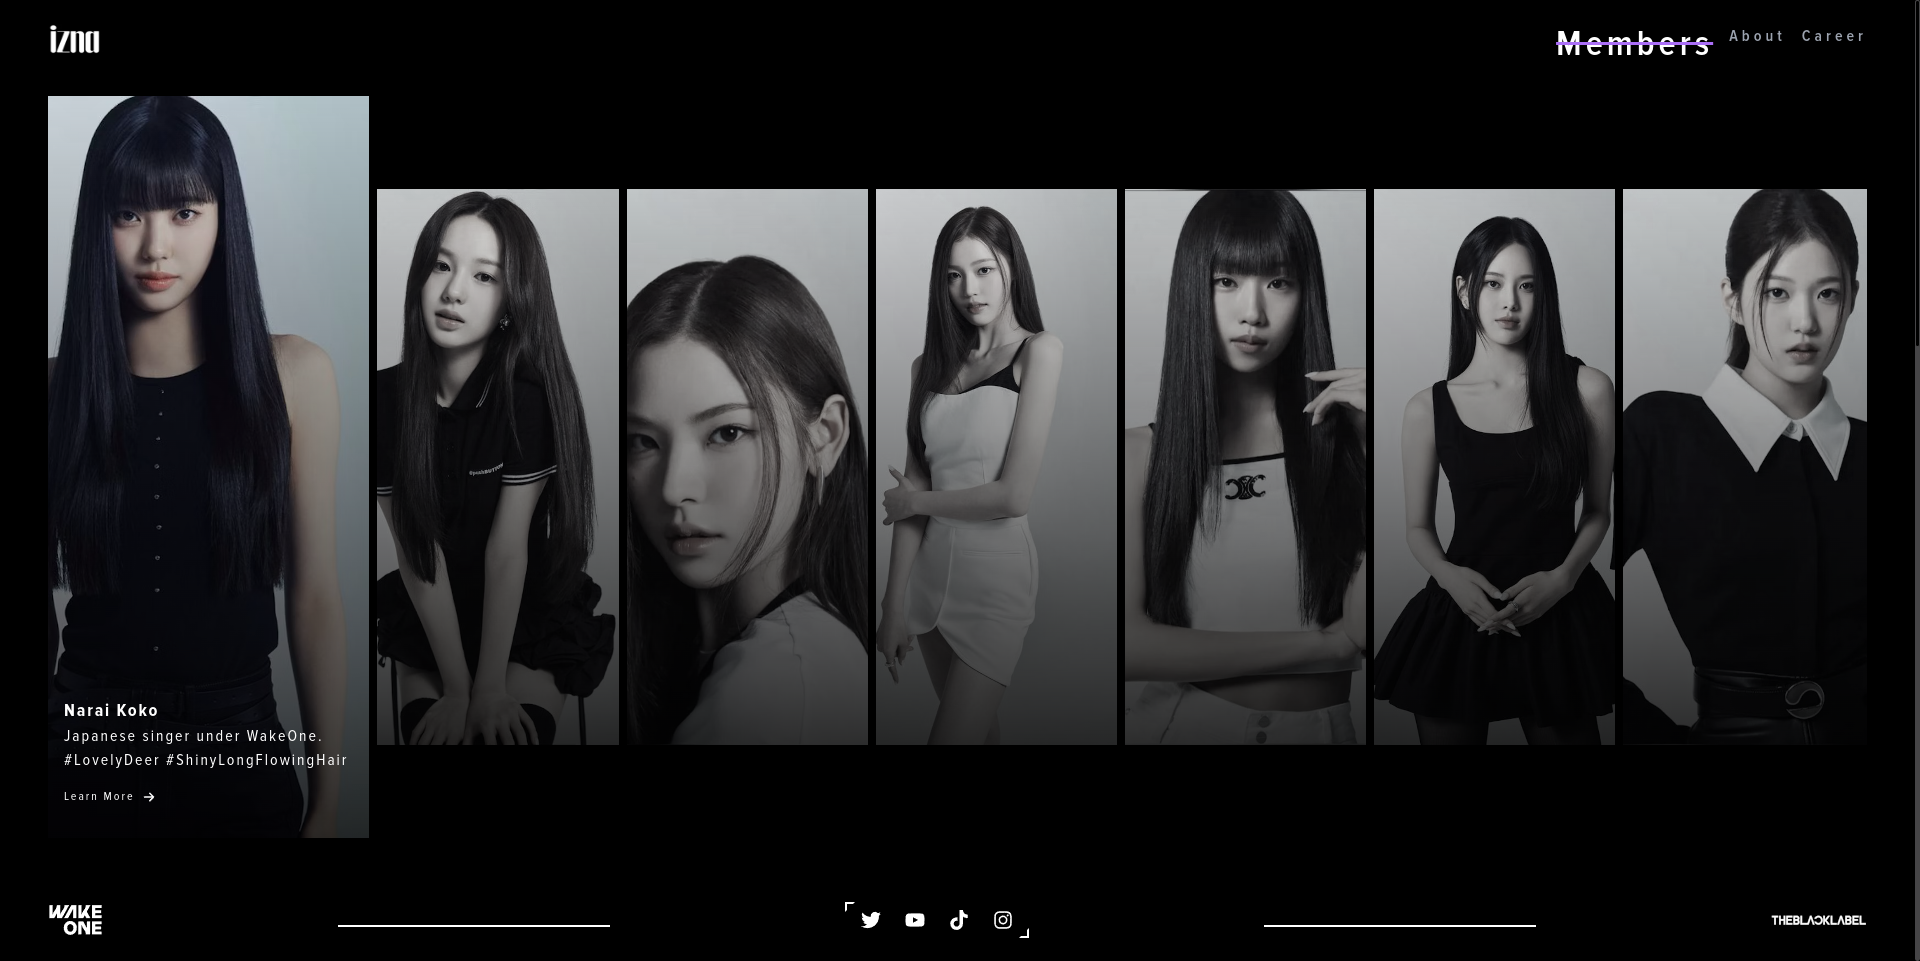
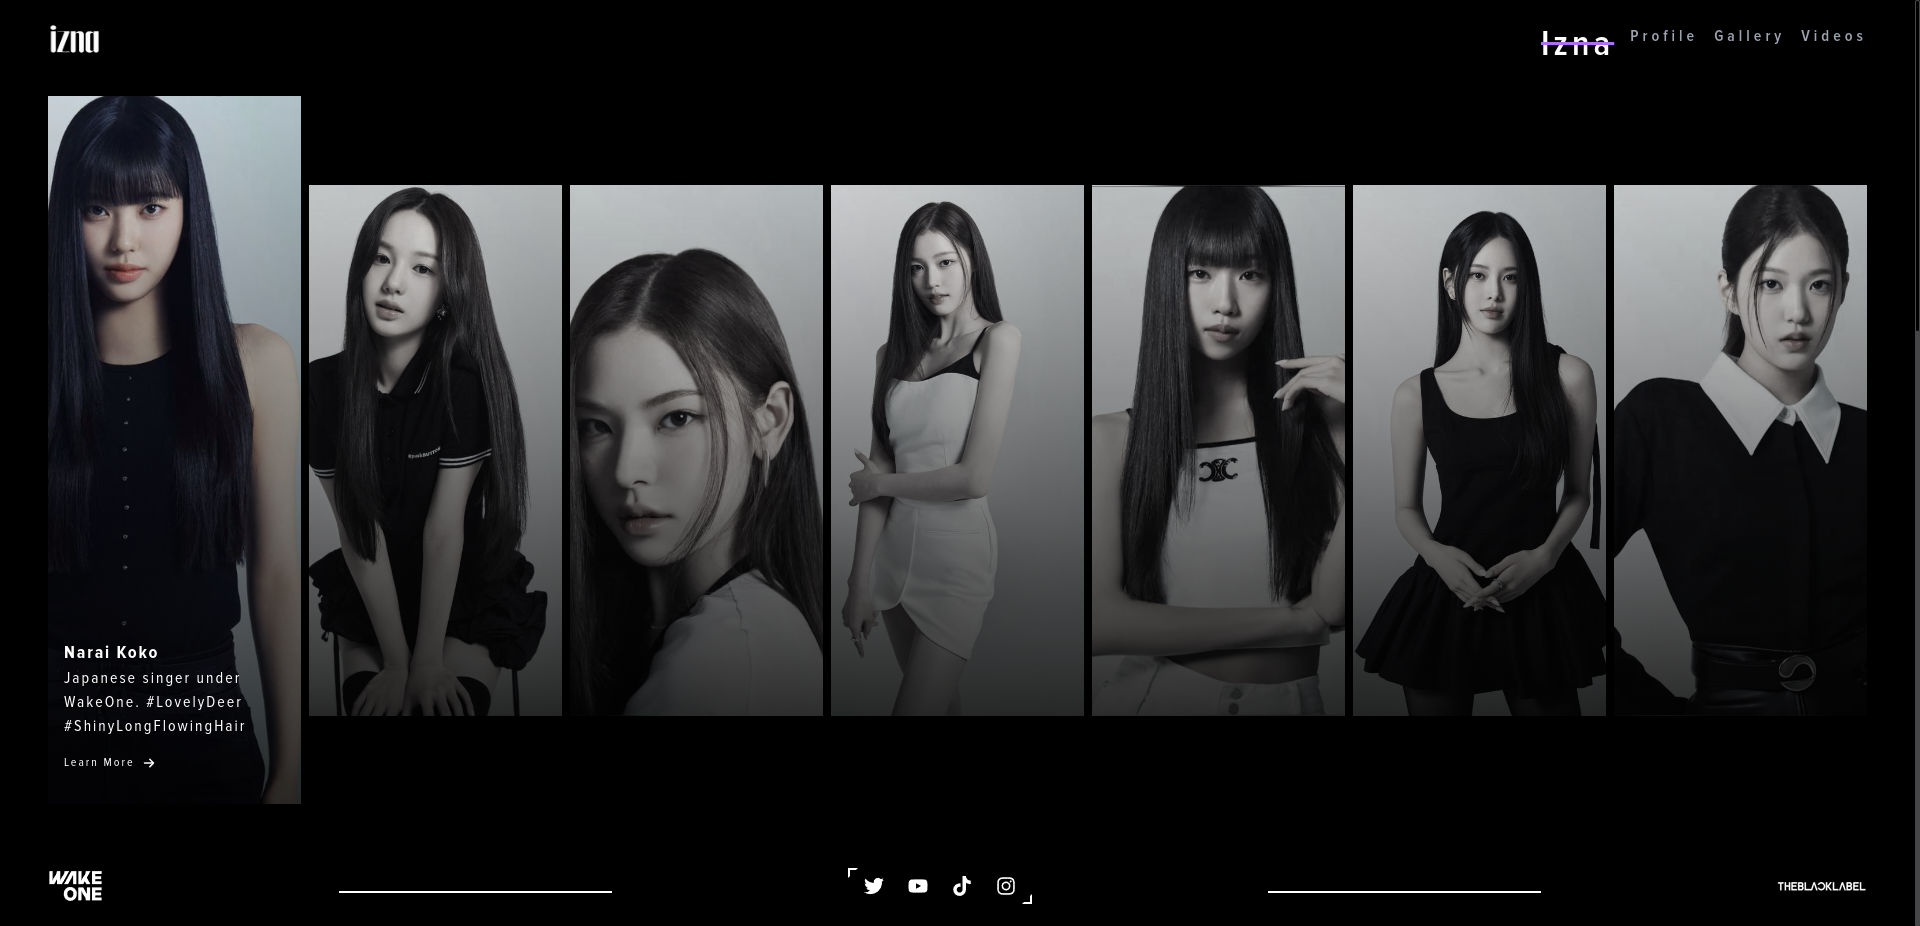
docs: update readme & seo related changes

diff --git a/src/app/[locale]/layout.tsx b/src/app/[locale]/layout.tsx
@@ -1,36 +1,49 @@
 import "@/styles/global.css";
 
-// import type { Metadata } from "next";
+import type { Metadata } from "next";
 import { NextIntlClientProvider, useMessages } from "next-intl";
 import { unstable_setRequestLocale } from "next-intl/server";
 
 import { proxima } from "@/constants/fonts";
+import siteMetaData from "@/libs/site-meta-data";
 import { appConfig } from "@/utils/app-config";
 
-// export const metadata: Metadata = {
-//   icons: [
-//     {
-//       rel: "apple-touch-icon",
-//       url: "/apple-touch-icon.png",
-//     },
-//     {
-//       rel: "icon",
-//       type: "image/png",
-//       sizes: "32x32",
-//       url: "/favicon-32x32.png",
-//     },
-//     {
-//       rel: "icon",
-//       type: "image/png",
-//       sizes: "16x16",
-//       url: "/favicon-16x16.png",
-//     },
-//     {
-//       rel: "icon",
-//       url: "/favicon.ico",
-//     },
-//   ],
-// };
+export const metadata: Metadata = {
+  metadataBase: new URL(siteMetaData.siteUrl),
+  title: {
+    template: `%s | ${siteMetaData.title}`,
+    default: siteMetaData.title, // a default is required when creating a template
+  },
+  description: siteMetaData.description,
+  openGraph: {
+    title: siteMetaData.title,
+    description: siteMetaData.description,
+    url: siteMetaData.siteUrl,
+    siteName: siteMetaData.title,
+    images: [siteMetaData.socialBanner],
+    locale: "en_US",
+    type: "website",
+  },
+  robots: {
+    index: true,
+    follow: true,
+    // nocache: true,
+    googleBot: {
+      index: true,
+      follow: false,
+      noimageindex: true,
+      "max-video-preview": -1,
+      "max-image-preview": "large",
+      "max-snippet": -1,
+    },
+  },
+  twitter: {
+    card: "summary_large_image",
+    title: siteMetaData.title,
+    description: siteMetaData.description,
+    images: [siteMetaData.socialBanner],
+  },
+};
 
 export function generateStaticParams() {
   return appConfig.locales.map((locale) => ({ locale }));
@@ -49,7 +62,6 @@ export default function RootLayout(props: {
     <html
       lang={props.params.locale}
       className={`${proxima.variable} font-sans`}
-      title="Naya"
     >
       <body>
         <NextIntlClientProvider

diff --git a/src/libs/site-meta-data.ts b/src/libs/site-meta-data.ts
@@ -1,0 +1,21 @@
+const siteMetadata = {
+  title: "IZNAYA - A Fan Project",
+  author: "Buffmomo@CHIUNZ",
+  headerTitle: "IZNAYA - A Fan Project",
+  description: "This is a hobby project about izna kpop girl group.",
+  language: "en-us",
+  theme: "system", // system, dark or light
+  siteUrl: "https://iznaya.netlify.app/", // your website URL
+  siteLogo: "../../public/assets/images/izna/logo_transparent.png",
+  socialBanner: "../../public/assets/images/izna/iznaya.png", // add social banner in the public folder
+  email: "me.buffedon@gmail.com",
+  github: "https://github.com/pushpa1105",
+  twitter: "https://twitter.com",
+  facebook: "https://facebook.com",
+  youtube: "https://youtube.com",
+  linkedin: "https://np.linkedin.com/",
+  dribbble: "https://www.dribbble.com",
+  locale: "en-US",
+};
+
+export default siteMetadata;

diff --git a/src/app/[locale]/sitemap.ts b/src/app/[locale]/sitemap.ts
@@ -1,15 +1,16 @@
 import type { MetadataRoute } from "next";
 
+import { getUrlsInArray } from "@/constants/urls";
 import { getBaseUrl } from "@/utils/helpers";
 
 export default function sitemap(): MetadataRoute.Sitemap {
-  return [
-    {
-      url: `${getBaseUrl()}/`,
+  const baseUrl = getBaseUrl();
+  return getUrlsInArray().map((x) => {
+    return {
+      url: `${baseUrl}${x}`,
       lastModified: new Date(),
       changeFrequency: "daily",
       priority: 0.7,
-    },
-    // Add more URLs here
-  ];
+    };
+  });
 }

diff --git a/src/utils/helpers.ts b/src/utils/helpers.ts
@@ -3,17 +3,6 @@ export const getBaseUrl = () => {
     return process.env.NEXT_PUBLIC_APP_URL;
   }
 
-  if (
-    process.env.VERCEL_ENV === "production" &&
-    process.env.VERCEL_PROJECT_PRODUCTION_URL
-  ) {
-    return `https://${process.env.VERCEL_PROJECT_PRODUCTION_URL}`;
-  }
-
-  if (process.env.VERCEL_URL) {
-    return `https://${process.env.VERCEL_URL}`;
-  }
-
   return "http://localhost:3000";
 };
 

diff --git a/src/constants/urls.ts b/src/constants/urls.ts
@@ -26,3 +26,11 @@ export const URLS = {
   VIDEO: (id: string | number) => `/en/videos/${id}`,
   ...generateProfileUrl(),
 };
+
+export const getUrlsInArray = () => {
+  const values: Array<string> = [];
+  Object.entries(URLS).forEach(([_, value]) => {
+    if (typeof value === "string") values.push(value);
+  });
+  return values;
+};

diff --git a/README.md b/README.md
@@ -10,7 +10,8 @@ Welcome to IZNAYA, the fan project for IZNA! This Next.js application is dedicat
 ## Features
 
 - **Group Profile**: Detailed information about IZNA members, including profiles, discography, and achievements.
-- **Music Library**: A collection of IZNA's songs, albums, and music videos.
+- **Gallery Library**: A collection of IZNA related photos.
+- **Video Library**: A collection of IZNA related videos.
   <!-- - **Performance Archive**: Videos and photos from concerts, variety shows, and other appearances. -->
   <!-- - **News Feed**: Latest updates on IZNA's activities, schedules, and announcements. -->
   <!-- - **Community Forum**: A space for NAYA to discuss, share fan art, and connect with each other. -->
